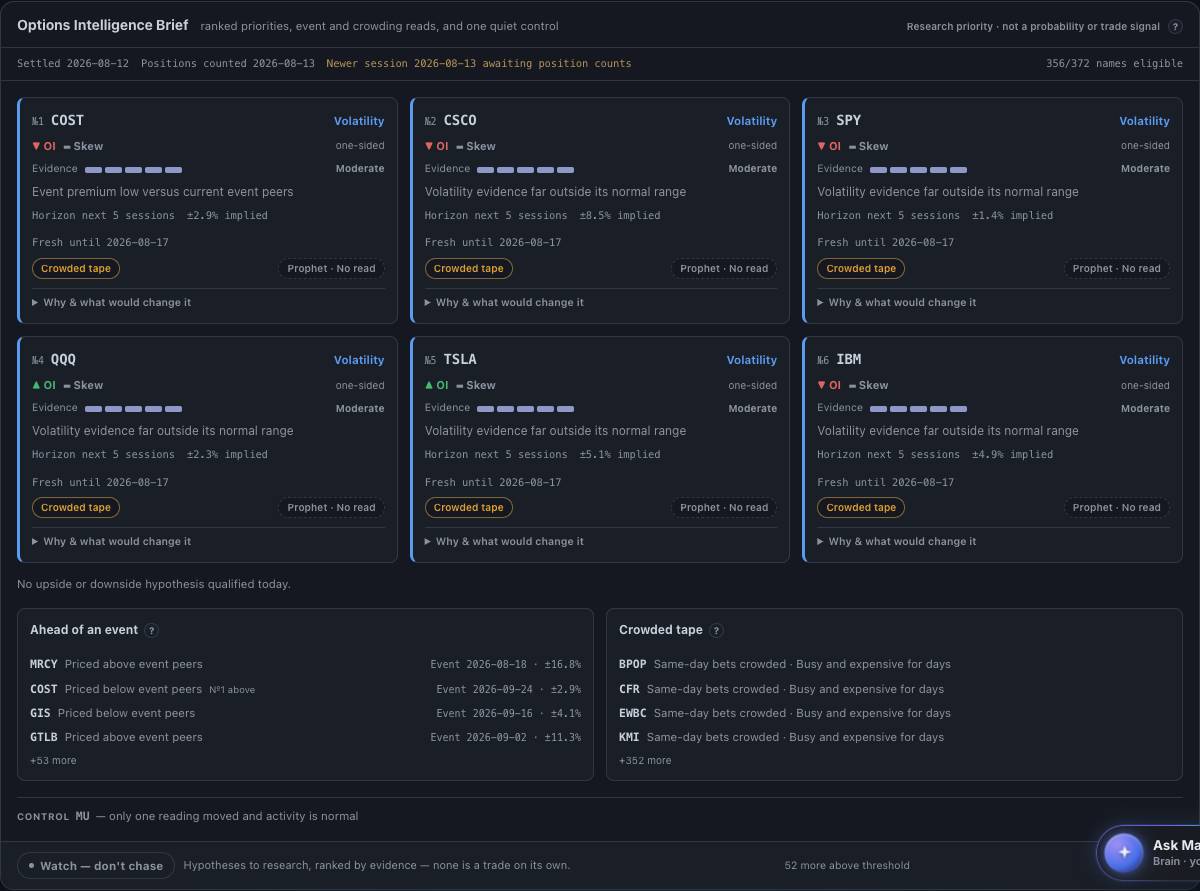
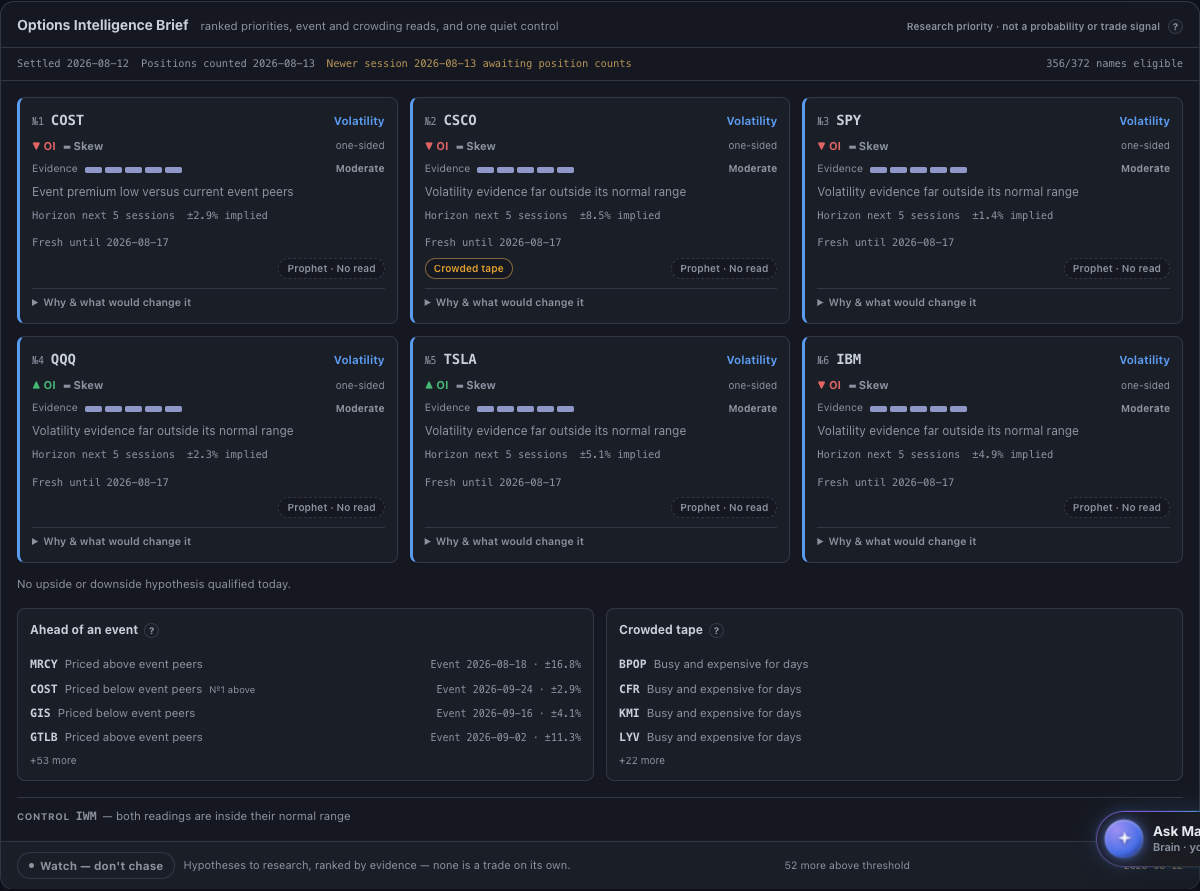
fix(options-intel-brief): close the crowding percentile defect (AD-1)
Debugger-proven defect: percentile_xs's plain (arr <= v).mean() assigned a
tied block the TOP-of-block rank. sd_share mass-ties at 0.0 on most real
sessions (369/372 names on S=2026-08-12), so that block's every member
scored ~0.99 and c1 fired for the whole eligible universe (356/356 on
2026-08-12; true crowded set: 3) -- poisoning the risk board (overflow 352),
putting a Crowded-tape chip on every card, and shortening fresh_until via
crowd legs universe-wide.

Two-part fix, per Fable's frozen ruling:
1. percentile_xs adopts MIDRANK tie handling: p = (n_less + 0.5*n_equal)/n.
   A tied block now ranks at its midpoint, never the top. percentile_long is
   untouched (its histories are proven non-degenerate).
2. sd_share resolves to None -- not 0.0 -- when a name's own same-day
   (<=SD_DTE) volume sum is exactly zero (empty slice or all-zero volume):
   a literal same-day share of 0 is "no same-day tape", not same-day
   crowding. c1 is then the midrank percentile over the remaining finite
   sd_share members only; below MIN_HISTORY(10) finite members, c1 is None
   universe-wide -- honest family absence.

C1_TH and every other CONFIG constant, percentile_long, and d1/d3
aggregation are unchanged (out of scope for this ruling). Contract updated
(§4 midrank/zero-guard convention, new §9 recording d1's own max-over-
~12-bucket-ranks inflation as a v1.3 candidate, out of scope this wave).

Real-store verification (S=2026-08-12, D=2026-08-13, pinned via the new
[…]

diff --git a/site/options.html b/site/options.html
@@ -53,9 +53,9 @@
 <script>try{var th=localStorage.getItem('theme');document.documentElement.setAttribute('data-theme',th||'dark');var l=localStorage.getItem('lang')||(function(){try{var L=navigator.languages||[navigator.language||navigator.userLanguage||''],i;for(i=0;i<L.length;i++)if((L[i]||'').toLowerCase().slice(0,2)==='zh')return'zh';if(/Shanghai|Hong_Kong|Macau|Urumqi|Chongqing|Harbin|Kashgar|Chungking/.test(Intl.DateTimeFormat().resolvedOptions().timeZone||''))return'zh';}catch(e){}return'';})();if(l)document.documentElement.setAttribute('data-lang',l);}catch(e){}</script>
 <link rel="stylesheet" href="theme.css?v=54439ad9">
 <link rel="stylesheet" href="illus.css?v=cbe6a0b4">
+<link rel="stylesheet" href="assets/css/a7339d13.css?v=a7339d13">
 <link rel="preload" as="style" href="product-nav-icons.css?v=093ad1ea">
 <link rel="preload" as="style" href="navigation-refresh.css?v=c299c324">
-<link rel="stylesheet" href="assets/css/a7339d13.css?v=a7339d13">
 </head>
 <body class="page-options">
 

diff --git a/tests/test_options_intel_brief.py b/tests/test_options_intel_brief.py
@@ -1925,3 +1925,203 @@ def test_b5_11_end_to_end_artifact_carries_the_nine_fields_with_correct_types():
     # opportunities board_rank stays contiguous 1..N regardless of how many
     # qualified this particular fixture (never re-derived from loop.index downstream)
     assert [c["board_rank"] for c in payload["opportunities"]] == list(range(1, len(payload["opportunities"]) + 1))
+
+
+# ─────────────────────────────────────────────────────────────────────────────
+# Crowding-defect ruling (AD-1, 2026-08-18; Fable-adjudicated, debugger-proven).
+#
+# Plain `(arr <= v).mean()` in `percentile_xs` assigned every member of a tied
+# block the TOP-of-block rank. On the real store, sd_share mass-ties at 0.0 on
+# most sessions (14/18 sampled; 369/372 names on S=2026-08-12), so that block's
+# every member scored ~0.99 and c1 fired for the whole eligible universe
+# (356/356 on 2026-08-12; true crowded set: 3). Fix has two parts: (1)
+# `percentile_xs` adopts MIDRANK tie handling (a tied block ranks at its
+# MIDPOINT, never the top); (2) `sd_share` becomes None — not 0.0 — when a
+# name's own same-day (<=SD_DTE) volume sum is exactly zero, since a literal
+# same-day share of 0 is "no same-day tape", not same-day crowding.
+# `percentile_long` and d1/d3 aggregation are explicitly UNTOUCHED (out of
+# scope for this ruling; d1's own inflation is recorded as a known limit,
+# contract §9).
+# ─────────────────────────────────────────────────────────────────────────────
+
+
+def test_cd_1_midrank_mass_tie_ranks_at_block_midpoint():
+    """The exact defect fixture: 369 zeros + 3 nonzero (S=2026-08-12 real-store
+    shape). A zero member now ranks at the tied block's MIDPOINT (~0.5·369/372
+    ~= 0.496), never the top (~0.99 under the old plain `<=` comparison) — and
+    so no longer clears C1_TH on its own."""
+    peers = {f"P{i}": 0.0 for i in range(369)}
+    peers["A"], peers["B"], peers["C"] = 0.5, 0.8, 1.0
+    p = brief.percentile_xs(peers, "P0")
+    assert p == pytest.approx(0.5 * 369 / 372, abs=1e-9)
+    assert p < CONFIG["C1_TH"]
+    # every member of the tied block gets the SAME rank (block-uniform, not
+    # insertion-order- or identity-dependent)
+    assert brief.percentile_xs(peers, "P200") == pytest.approx(p, abs=1e-9)
+    # the genuinely-extreme nonzero members still rank correctly (unaffected by
+    # the tie-handling rewrite when they carry no ties of their own)
+    assert brief.percentile_xs(peers, "C") == pytest.approx(371.5 / 372, abs=1e-9)
+
+
+def test_cd_2_midrank_never_exceeds_old_top_of_block_ceiling():
+    """Strict property: no member of a tied block may rank above
+    `(count_strictly_less + block_size) / n` — the OLD plain-`<=` value is the
+    CEILING a midrank member may never reach (it lands at the block's own
+    midpoint, strictly below whenever the block has more than one member)."""
+    peers = {f"P{i}": 0.0 for i in range(20)}
+    peers.update({f"Q{i}": 1.0 for i in range(5)})
+    n = len(peers)
+    block_size = 20
+    ceiling = (0 + block_size) / n
+    p = brief.percentile_xs(peers, "P0")
+    assert p < ceiling
+    assert p == pytest.approx(0.5 * block_size / n, abs=1e-9)
+
+
+def test_cd_3_continuous_input_regression_matches_old_within_one_over_n():
+    """On a fully-distinct (no-tie) 350-name cross-section, midrank and the old
+    plain-`<=` percentile differ by at most 1/n per name — the rewrite changes
+    tie handling only; it is a no-op (up to the trivial 0.5-vs-1.0 count-equal
+    term) whenever nothing is actually tied."""
+    rng = np.random.default_rng(42)
+    vals = rng.choice(np.linspace(0.0, 1.0, 10_000), size=350, replace=False)
+    peers = {f"N{i}": float(v) for i, v in enumerate(vals)}
+    arr = np.array(list(peers.values()))
+    n = len(arr)
+    for name, v in peers.items():
+        new_p = brief.percentile_xs(peers, name)
+        old_p = float((arr <= v).mean())
+        assert abs(new_p - old_p) <= 1.0 / n + 1e-9
+
+
+def test_cd_4_zero_same_day_volume_gives_none_sd_share_never_fires_c1():
+    """A name with genuinely zero <=SD_DTE volume gets `sd_share = None`, not
+    `0.0` — and c1 is None for it regardless of how extreme its peers are
+    (an empty/zero-volume same-day slice is definitionally not same-day
+    crowding)."""
+    session = "2026-03-02"
+    band_size = 21 * 2   # moneyness_grid(21) x call/put -- _symbol_rows' "zero" band
+    rows = _symbol_rows("ZEROVOL", session, volume=80.0)
+    for r in rows[:band_size]:            # zero out ONLY the <=SD_DTE band
+        r["volume"] = 0.0
+    hot_rows = _symbol_rows("HOT", session, volume=10.0)
+    for r in hot_rows[:band_size]:        # concentrate volume in the same-day band
+        r["volume"] = 500.0
+    peer_rows: list[dict] = []
+    for i in range(12):   # letters only -- _STANDARD_TICKER_RE root is [A-Za-z.]+
+        peer_rows.extend(_symbol_rows(f"PEER{chr(65 + i)}", session, volume=50.0))
+    df = _mk_chain(rows + hot_rows + peer_rows, session=session)
+    m = brief.session_metrics(df)
+    assert m["ZEROVOL"]["sd_share"] is None
+    assert m["HOT"]["sd_share"] is not None and m["HOT"]["sd_share"] > 0.9
+    xs = {n: m[n]["sd_share"] for n in m}
+    assert sum(1 for v in xs.values() if v is not None) >= CONFIG["MIN_HISTORY"]
+    assert brief.percentile_xs(xs, "ZEROVOL") is None
+    # HOT's own extreme peer value fires normally -- proves ZEROVOL's None is
+    # not an artifact of a starved cross-section
+    assert brief.percentile_xs(xs, "HOT") >= CONFIG["C1_TH"]
+
+
+def test_cd_5_below_floor_finite_members_c1_none_for_everyone():
+    """Fewer than MIN_HISTORY (10) finite `sd_share` members -> c1 is None
+    universe-wide, even though every member's own value is a genuine
+    (non-degenerate) same-day share -- honest family absence, not a fired
+    leg."""
+    session = "2026-03-02"
+    rows: list[dict] = []
+    for i in range(5):   # < MIN_HISTORY(10); letters only, see _STANDARD_TICKER_RE
+        rows.extend(_symbol_rows(f"NM{chr(65 + i)}", session, volume=50.0))
+    df = _mk_chain(rows, session=session)
+    m = brief.session_metrics(df)
+    xs = {n: m[n]["sd_share"] for n in m}
+    assert 0 < sum(1 for v in xs.values() if v is not None) < CONFIG["MIN_HISTORY"]
+    for n in m:
+        assert brief.percentile_xs(xs, n) is None
+
+
+def test_cd_6_fresh_until_reverts_to_family_life_when_c1_leg_vanishes():
+    """B3 knock-on (fresh_until_for, direct unit level -- same style as the b3_*
+    suite): a RISK_ONLY card jointly fired by c1 (same-day, life 0) AND c2 (V
+    family, life 5) was forced to the CURRENT session by the min-of-mins rule.
+    Once the spurious c1 leg vanishes (this ruling), the SAME card -- now only
+    c2-fired -- reverts to c2's own V-family life (S+5 sessions), not S."""
+    S = "2026-03-16"
+    before = brief.fresh_until_for(direction="RISK_ONLY", S=S, session_n_forward_fn=_session_n_forward,
+                                    crowd_fired_legs=["c1", "c2"])
+    assert before == S   # c1's life-0 wins the min -- crowd-shortened to today
+    after = brief.fresh_until_for(direction="RISK_ONLY", S=S, session_n_forward_fn=_session_n_forward,
+                                   crowd_fired_legs=["c2"])
+    assert after == _session_n_forward(S, CONFIG["FRESH_LIVES_SESSIONS"]["V"])
+    assert after > S     # returned to its family life, no longer crowd-shortened
+
+
+@pytest.mark.needs_full_checkout("data")
+def test_cd_7_real_store_recurrence_guard_2026_08_12(tmp_path, monkeypatch):
+    """Real-store recurrence guard, pinned to the debugger's exact exemplar
+    session (S=2026-08-12, D=2026-08-13) via a filtered CHAINS_DIR snapshot --
+    so this stays anchored to the known-defect session regardless of how much
+    the committed store grows later (``producer.build`` otherwise always picks
+    the NEWEST lawful pair). Asserts (a) the fired-crowding count the real
+    pipeline now produces is <=40 (post-fix expectation ~27: c2/c3 only -- this
+    session structurally has too few finite sd_share peers for c1 to fire at
+    all, an honest absence) and (b) that bound is corroborated by an
+    INDEPENDENT recomputation straight from `session_metrics`/`percentile_xs`
+    on the real chain (not a re-read of the artifact's own counters)."""
+    S, D = "2026-08-12", "2026-08-13"
+    real_chains = REPO_ROOT / "data" / "polygon_gex" / "chains"
+    s_file, d_file = real_chains / f"{S}.parquet", real_chains / f"{D}.parquet"
+    if not (s_file.exists() and d_file.exists()):
+        pytest.skip(f"real store no longer carries the {S}/{D} exemplar snapshots")
+
+    # producer.build() computes input-receipt paths via `fp.relative_to(_REPO_ROOT)`,
+    # so the pinned snapshot dir must live UNDER the repo root, not the system tmp
+    # dir pytest's own `tmp_path` fixture uses.
+    import shutil
+    import tempfile
+    scratch = Path(tempfile.mkdtemp(dir=REPO_ROOT, prefix=".cd7_scratch_"))
+    try:
+        pinned_dir = scratch / "chains"
+        pinned_dir.mkdir()
+        for f in sorted(real_chains.glob("*.parquet")):
+            if f.stem <= D:
+                (pinned_dir / f.name).symlink_to(f)
+        monkeypatch.setattr(producer, "CHAINS_DIR", pinned_dir)
+
+        payload = producer.build(now=datetime.now(timezone.utc), out_path=tmp_path / "artifact.json",
+                                  ignore_staleness=True)
+    finally:
+        shutil.rmtree(scratch, ignore_errors=True)
+    assert payload["as_of_session"] == S
+    assert payload["oi_counted_date"] == D
+
+    total_fired = len(payload["risk_warnings"]) + payload["risk_board_overflow"]
+
+    # Independent recomputation: straight from the engine primitives on the
+    # real S-day chain, not from re-reading the artifact.
+    day_S = pd.read_parquet(s_file)
+    metrics_S, _ = brief.session_metrics_and_exclusions(day_S)
+    sd_xs = {n: metrics_S[n]["sd_share"] for n in metrics_S}
+    finite_sd = [v for v in sd_xs.values() if v is not None]
+    c1_fired_recomputed = {
+        n for n in metrics_S
+        if (c1 := brief.percentile_xs(sd_xs, n)) is not None and c1 >= CONFIG["C1_TH"]
+    }
+    # the debugger's own exemplar (369/372 zero sd_share) -- fewer than
+    # MIN_HISTORY finite same-day-volume names this session, so c1 is an
+    # honest universe-wide absence, never a fired leg.
+    assert len(finite_sd) < CONFIG["MIN_HISTORY"]
+    assert c1_fired_recomputed == set()
+
+    # every card the real pipeline actually exposes must agree: none of them
+    # carry a fired c1 leg this session.
+    for grp in ("opportunities", "directional_watch", "event_board", "risk_warnings"):
+        for c in payload[grp]:
+            cw = c.get("crowding")
+            if cw is not None:
+                assert "c1" not in cw["fired"]
+
+    assert total_fired <= 40, (
+        f"post-fix crowding fire count {total_fired} exceeds the debugger's bound "
+        f"(expected ~27: c2/c3 only -- c1 is an honest absence this session, "
+        f"recomputed independently above)"
+    )

diff --git a/engine/options_intel_brief.py b/engine/options_intel_brief.py
@@ -159,12 +159,25 @@ def percentile_long(history: Sequence[float | None], value: float | None,
 
 def percentile_xs(peer_values: Mapping[str, float | None], symbol: str,
                    *, floor: int = CONFIG["MIN_HISTORY"]) -> float | None:
-    """``p_xs`` — symbol's percentile among its (already tier-matched) peers."""
+    """``p_xs`` — symbol's percentile among its (already tier-matched) peers.
+
+    Midrank tie handling (crowding-defect ruling, 2026-08-18, contract §4): a
+    member of a tied block ranks at the block's MIDPOINT, ``p = (count_strictly_less +
+    0.5*count_equal) / n`` — never top-of-block. Plain ``(arr <= v).mean()``
+    assigns every member of a degenerate-mass tied block (e.g. all-zero
+    ``sd_share``) the maximal percentile in that block, letting a mass-tie
+    self-certify as extreme; midrank instead pins a fully-tied population at
+    ``0.5`` for everyone, which cannot exceed a fixed threshold like ``C1_TH``.
+    """
     vals = {k: float(v) for k, v in peer_values.items() if _finite(v)}
     if symbol not in vals or len(vals) < floor:
         return None
     arr = np.array(list(vals.values()))
-    return float((arr <= vals[symbol]).mean())
+    v = vals[symbol]
+    n = float(len(arr))
+    less = float((arr < v).sum())
+    equal = float((arr == v).sum())
+    return (less + 0.5 * equal) / n
 
 
 def blend(p_xs: float | None, p_long: float | None,
@@ -441,7 +454,13 @@ def session_metrics_and_exclusions(day: pd.DataFrame) -> tuple[dict[str, dict[st
         vb = grp.groupby([money, dtb], observed=True)["volume"].sum(min_count=1)
         vol_tot = float(grp["volume"].fillna(0).sum())
         sd = grp[dte <= CONFIG["SD_DTE"]]
-        sd_share = float(sd["volume"].fillna(0).sum() / vol_tot) if vol_tot > 0 else None
+        sd_vol = float(sd["volume"].fillna(0).sum())
+        # Crowding-defect ruling (2026-08-18, contract §4): an empty <=SD_DTE slice OR a
+        # zero-volume slice both mean "no same-day tape" -- definitionally not
+        # same-day crowding, not a same-day share of exactly 0. Leaving this at
+        # 0.0 let a mass-tie at the floor self-certify as maximally crowded once
+        # percentile_xs ranked ties at the top of the block.
+        sd_share = (sd_vol / vol_tot) if (vol_tot > 0 and sd_vol > 0) else None
         out[str(name)] = {
             "spot": spot,
             "n_quot": int(len(quot)),

diff --git a/contracts/options/OPTIONS_INTEL_BRIEF_V1.md b/contracts/options/OPTIONS_INTEL_BRIEF_V1.md
@@ -187,6 +187,24 @@ DOI_CLAMP                = 3.0         # z clamped to [-3,3]/3
 - C family: c1 = XS rank of 0DTE volume share (≥0.90 fires); c2 = v1 ≥ 0.95 AND spot ≥ 0.98×
   max spot over min(20,H) (floor 10); c3 = d1 ≥ 0.95 ∧ d3 ≥ 0.5 ∧ v2 ≥ 0.90. Severity =
   max(fired inputs).
+  - Cross-sectional percentile convention (`percentile_xs`, crowding-defect ruling,
+    2026-08-18, `MODEL_VERSION` unchanged at v1.2 — this is a primitive-correctness fix,
+    not a semantic model revision): MIDRANK ties — `p = (count_strictly_less + 0.5·count_equal) / n`. A
+    member of a tied block ranks at the block's MIDPOINT, never the top of the block.
+    Applies to every `percentile_xs` caller (c1, v2, v3-XS-half, event F_E); does NOT
+    apply to `percentile_long` (its histories are proven non-degenerate — changing it
+    would perturb frozen v1/d1 longitudinal semantics, out of scope this wave).
+  - `sd_share` (c1's input) requires a nonzero same-day (≤`SD_DTE`) volume sum: an empty
+    ≤1.5-DTE slice OR a zero-volume slice both resolve `sd_share = None`, not `0.0` — a
+    literal same-day share of exactly zero is definitionally "no same-day tape", not
+    same-day crowding. `c1` is then the midrank percentile over the remaining FINITE
+    `sd_share` members only (peers with `sd_share = None` are excluded from the
+    cross-section entirely, same as any other missing peer value); with fewer than
+    `MIN_HISTORY` (10) finite members, `c1 = None` universe-wide — honest family
+    absence, not a fired leg. Ruling note: a member of a tied block ranks at the
+    block's midpoint, so a degenerate-mass block (e.g. a session where most names
+    carry `sd_share = 0.0`, formerly ranked at the block's top under plain `<=`
+    comparison) can no longer self-certify as extreme.
 - `evidence_strength`: directional = clamp01(0.70·mean(|Q_oi|,|Q_skew|) + 0.30·D_salience);
   VOLATILITY = |F_E| if E present else |F_V| (evidence EXTREMITY); RISK_ONLY = C severity.
 - `evidence_confidence = min(ceil, 0.30 + 0.10·[d3 ≥ 0.5] + 0.05·[coverage complete])`;
@@ -405,3 +423,12 @@ correction chain is claimed (`supersedes_signal_id`/`corrected_at` stay null pla
 Every history-dependent CONFIG constant must be satisfiable by ≥60% of names present in the
 latest committed session of the real store at test time (`needs_full_checkout`-marked test).
 A spec change demanding more depth than the canonical producer supplies must fail CI.
+
+## 9. Known limits (recorded; out of scope this wave)
+
+- `d1`'s max-over-~12-discrete-bucket-ranks construction (§4) inflates: under exchangeability
+  `P(max over ~12 roughly-independent percentile ranks ≥ 0.95) ≈ 0.60` (debugger-verified,
+  2026-08-18), i.e. `d1 ≥ 0.95` fires far more often than a single-percentile 5% base rate
+  would suggest. Recorded as a v1.3 candidate (tighten the bucket-rank aggregation or the
+  `D1_PERSIST_TH`/`C3_D1` thresholds against the inflated distribution); NOT touched by the
+  crowding-defect fix above — `d1`/`d3` aggregation is explicitly out of scope for that ruling.
